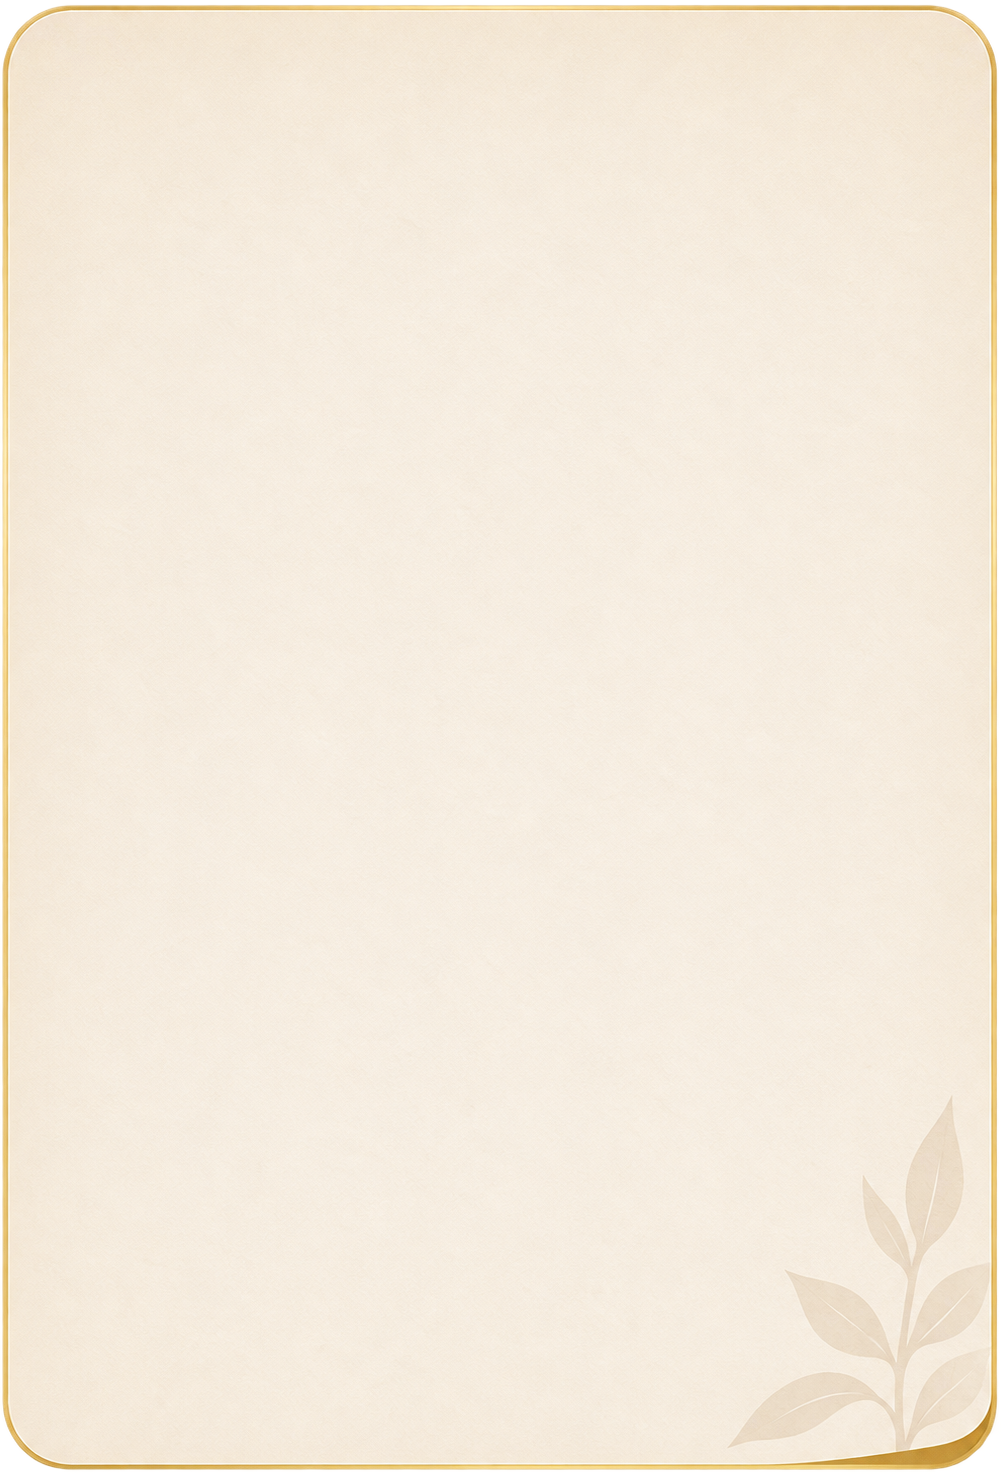
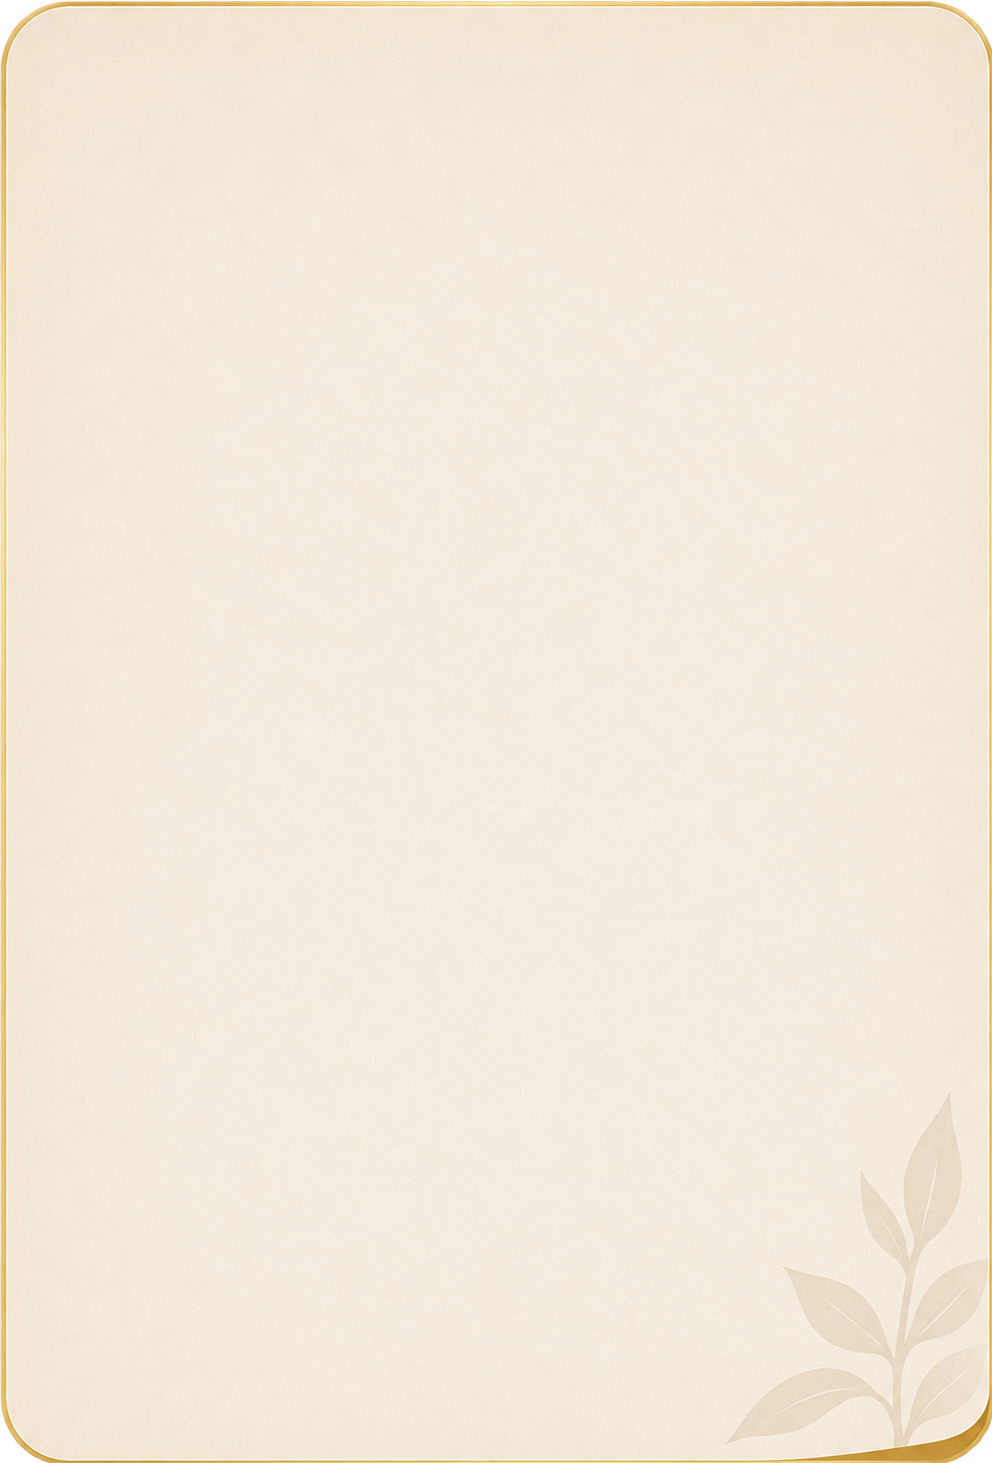
fix: cards images

Changed region(s): [[0.0, 0.0, 1.0, 1.0]]

diff --git a/components/sections/GlimpseOfJourney/GlimpseOfJourney.tsx b/components/sections/GlimpseOfJourney/GlimpseOfJourney.tsx
@@ -104,18 +104,14 @@ export default function GlimpseOfJourney() {
           {SEWA_CARDS.map((card) => (
             <article
               key={card.id}
-              className="group relative overflow-visible rounded-[17px] border border-[#e4d8c0] shadow-[0_5px_16px_rgba(67,51,25,0.12)] transition-all duration-500 hover:-translate-y-1.5 hover:shadow-[0_12px_28px_rgba(67,51,25,0.18)]"
+              className="group relative overflow-visible rounded-[17px] border border-[#e4d8c0] shadow-[0_-3px_14px_rgba(67,51,25,0.08)] transition-all duration-500 hover:-translate-y-1.5 hover:shadow-[0_-4px_20px_rgba(67,51,25,0.12)]"
+              style={{
+                backgroundImage: "url('/assets/sewa/card_image.png')",
+                backgroundSize: "100% 100%",
+                backgroundPosition: "center",
+                backgroundRepeat: "no-repeat",
+              }}
             >
-              {/* Card background image */}
-              <Image
-                src="/assets/sewa/card_image.png"
-                alt=""
-                aria-hidden="true"
-                fill
-                sizes="(max-width: 640px) 100vw, (max-width: 1024px) 50vw, 25vw"
-                className="pointer-events-none absolute inset-0 h-full w-full rounded-[17px] object-fill"
-              />
-
               {/* Image wrapper */}
               <div className="relative h-[230px] rounded-t-[17px] sm:h-[205px] md:h-[215px] lg:h-[230px] xl:h-[240px]">
                 <div
@@ -176,11 +172,11 @@ export default function GlimpseOfJourney() {
                 </p>
 
                 {/* Bottom decorative leaves */}
-                <div className="pointer-events-none absolute bottom-0 right-0 h-[72px] w-[85px] overflow-hidden opacity-[0.17]">
+                {/* <div className="pointer-events-none absolute bottom-0 right-0 h-[72px] w-[85px] overflow-hidden opacity-[0.17]">
                   <div className="absolute bottom-[-20px] right-[18px] h-[85px] w-[32px] rotate-[30deg] border-l border-[#a88b55]" />
                   <div className="absolute bottom-[10px] right-[42px] h-[30px] w-[15px] rotate-[-25deg] rounded-[100%] border border-[#a88b55]" />
                   <div className="absolute bottom-[30px] right-[20px] h-[28px] w-[14px] rotate-[28deg] rounded-[100%] border border-[#a88b55]" />
-                </div>
+                </div> */}
               </div>
             </article>
           ))}
